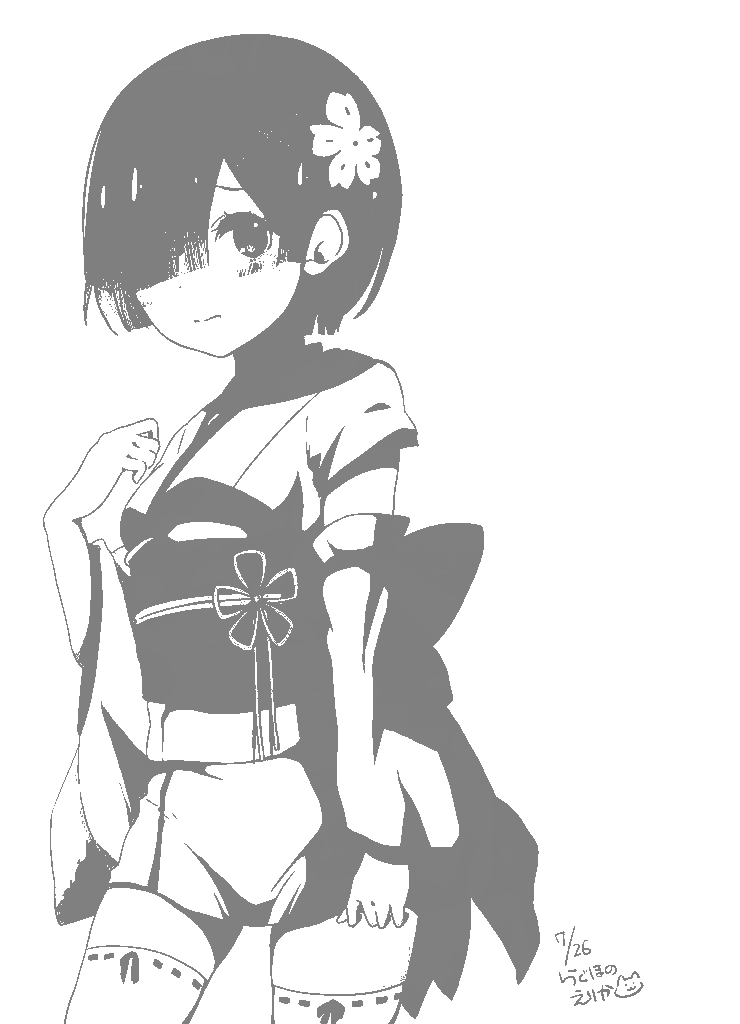
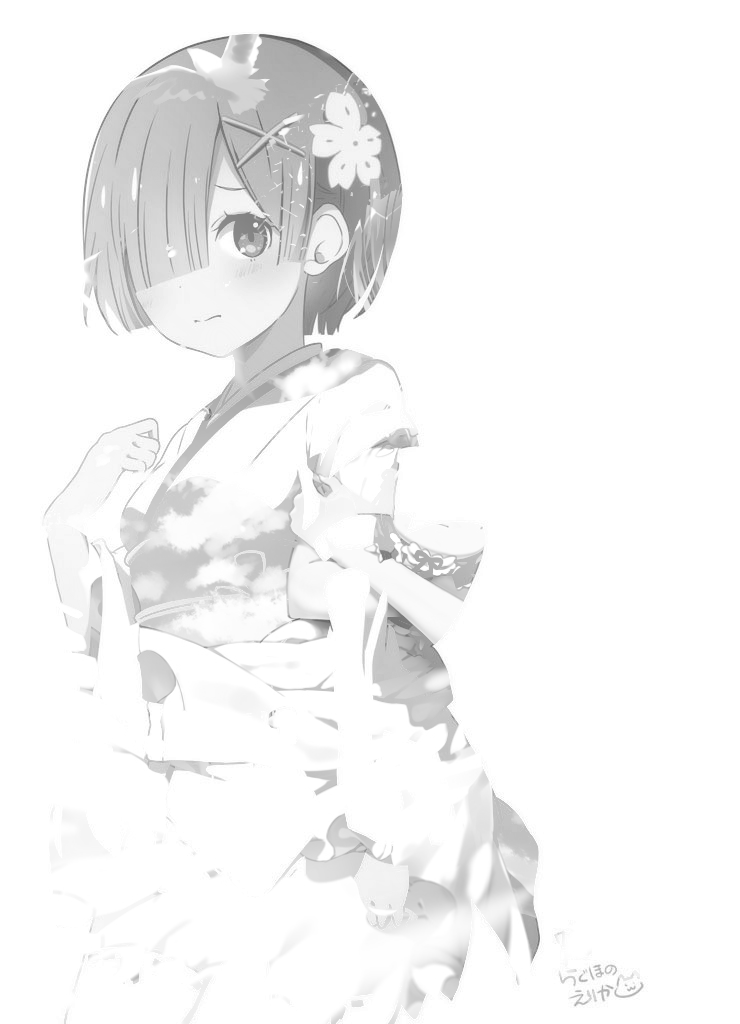
Change algorithm, using alpha blending now. But there's still some problem to solve...

Changed region(s): [[0.0622, 0.0312, 0.8703, 1.0]]

diff --git a/main.cpp b/main.cpp
@@ -12,6 +12,7 @@
 #include <opencv2/opencv.hpp>
 #include <opencv2/core/version.hpp>
 #include <opencv2/imgproc/imgproc.hpp>
+#include <libpng16/png.h>
 
 using namespace cv;
 
@@ -23,25 +24,19 @@ using namespace cv;
 #define CV_CVTCOLOR_GREY2BGRA COLOR_GRAY2BGRA
 #endif
 
-#define K_DEFAULT_THRESHOLD 192
 #define K_TRANSPARENT_ALPHA 0
-#define deviant 255
 
 #define ENSURE_NOT_NULL(x) (x != nullptr)
 
-char * frontlayer = NULL;
-char * backlayer = NULL;
+char * front_file = NULL;
+char * back_file = NULL;
 char * output = NULL;
-int front_threshold_value = K_DEFAULT_THRESHOLD;
-int back_threshold_value = K_DEFAULT_THRESHOLD;
 
 static struct option long_options[] = {
     {"help",            no_argument,       0, 'h'},
     {"front",           required_argument, 0, 'f'},
     {"back",            required_argument, 0, 'b'},
     {"ouput",           required_argument, 0, 'o'},
-    {"front threshold", optional_argument, 0, '1'},
-    {"back threshold",  optional_argument, 0, '2'},
     {0, 0, 0, 0}
 };
 
@@ -51,8 +46,6 @@ static struct option long_options[] = {
 void print_usage() {
     fprintf(stderr, "Usage: hoshizora [-f front layer]\n"
                     "                 [-b back layer]\n"
-                    "                 [-1 front threshold]\n"
-                    "                 [-2 back threshold]\n"
                     "                 [-o ouput]\n"
                     "\n"
                     "                 -h To print this help\n");
@@ -64,7 +57,7 @@ int parse_command_line(int argc, char * const * argv) {
     
     while (1) {
         option_index = 0;
-        c = getopt_long (argc, argv, "hf:b:1:2:o:", long_options, &option_index);
+        c = getopt_long (argc, argv, "hf:b:o:", long_options, &option_index);
         if (c == -1)
             break;
         switch (c) {
@@ -79,19 +72,11 @@ int parse_command_line(int argc, char * const * argv) {
                 break;
             }
             case 'f': {
-                asprintf(&frontlayer, "%s", optarg);
+                asprintf(&front_file, "%s", optarg);
                 break;
             }
             case 'b': {
-                asprintf(&backlayer, "%s", optarg);
-                break;
-            }
-            case '1': {
-                front_threshold_value = atoi(optarg);
-                break;
-            }
-            case '2': {
-                back_threshold_value = atoi(optarg);
+                asprintf(&back_file, "%s", optarg);
                 break;
             }
             case '?':
@@ -101,14 +86,9 @@ int parse_command_line(int argc, char * const * argv) {
         }
     }
     
-    return ENSURE_NOT_NULL(frontlayer)    &&
-           ENSURE_NOT_NULL(backlayer)     &&
-           ENSURE_NOT_NULL(output)        &&
-           (front_threshold_value >= 0    &&
-            front_threshold_value <= 255) &&
-           (back_threshold_value >= 0     &&
-            back_threshold_value <= 255)
-    ;
+    return ENSURE_NOT_NULL(front_file)    &&
+           ENSURE_NOT_NULL(back_file)     &&
+           ENSURE_NOT_NULL(output);
 }
 
 /**
@@ -133,6 +113,89 @@ void resize(Mat &src, Mat &dest, int width, int height, int interpolation = INTE
     cv::resize(src, dest, Size(width, height), width/w, height/h, interpolation);
 }
 
+int magic(char* filename, Size size, Mat& frontlayer, Mat& backlayer) {
+    int code = 0;
+    FILE *fp = NULL;
+    png_structp png_ptr = NULL;
+    png_infop info_ptr = NULL;
+    png_bytep row = NULL;
+    auto front_pixel = frontlayer.begin<Vec<uchar, 1>>();
+    auto back_pixel = backlayer.begin<Vec<uchar, 1>>();
+    
+    // Open file for writing (binary mode)
+    fp = fopen(filename, "wb");
+    if (fp == NULL) {
+        fprintf(stderr, "Could not open file %s for writing\n", filename);
+        code = 1;
+        goto finalise;
+    }
+    
+    // Initialize write structure
+    png_ptr = png_create_write_struct(PNG_LIBPNG_VER_STRING, NULL, NULL, NULL);
+    if (png_ptr == NULL) {
+        fprintf(stderr, "Could not allocate write struct\n");
+        code = 1;
+        goto finalise;
+    }
+    
+    // Initialize info structure
+    info_ptr = png_create_info_struct(png_ptr);
+    if (info_ptr == NULL) {
+        fprintf(stderr, "Could not allocate info struct\n");
+        code = 1;
+        goto finalise;
+    }
+    
+    // Setup Exception handling
+    if (setjmp(png_jmpbuf(png_ptr))) {
+        fprintf(stderr, "Error during png creation\n");
+        code = 1;
+        goto finalise;
+    }
+    png_init_io(png_ptr, fp);
+    
+    // Write header (8 bit colour depth)
+    png_set_IHDR(png_ptr, info_ptr, size.width, size.height,
+                 8, PNG_COLOR_TYPE_GRAY_ALPHA, PNG_INTERLACE_NONE,
+                 PNG_COMPRESSION_TYPE_BASE, PNG_FILTER_TYPE_BASE);
+    
+    png_write_info(png_ptr, info_ptr);
+    
+    // Allocate memory for one row (2 bytes per pixel - Gray+Alpha)
+    row = (png_bytep)malloc(2 * size.width * sizeof(png_byte));
+    
+    // Write image data
+    
+    for (int y = 0; y < size.height; y++) {
+        for (int x = 0; x < size.width; x++) {
+            uchar _y = (*back_pixel)[0];
+            uchar _x = (*front_pixel)[0];
+            uchar A = min(_y + 255 - _x, 255);
+            uchar G = (_y * 255.0f) / A;
+            row[x * 2 + 1] = A;
+            row[x * 2]     = G;
+            front_pixel++;
+            back_pixel++;
+        }
+        png_write_row(png_ptr, row);
+    }
+    
+    // End write
+    png_write_end(png_ptr, NULL);
+finalise:
+    if (fp != NULL) fclose(fp);
+    if (info_ptr != NULL) png_free_data(png_ptr, info_ptr, PNG_FREE_ALL, -1);
+    if (png_ptr != NULL) png_destroy_write_struct(&png_ptr, (png_infopp)NULL);
+    if (row != NULL) free(row);
+    
+    return code;
+}
+
+void overlay_center(Mat& bottom, Mat& layer, double alpha = 0) {
+    Rect roi = Rect((bottom.cols - layer.cols) / 2, (bottom.rows - layer.rows) / 2, layer.cols, layer.rows);
+    layer.copyTo(bottom(roi));
+}
+
 int main(int argc, const char * argv[]) {
     if (!parse_command_line(argc, (char * const *)argv)) {
         print_usage();
@@ -140,9 +203,9 @@ int main(int argc, const char * argv[]) {
     }
     
     // Load and transform to gray scale
-    Mat front = imread(frontlayer, CV_LOAD_IMAGE_GRAYSCALE);
-    Mat back  = imread(backlayer,  CV_LOAD_IMAGE_GRAYSCALE);
-    
+    Mat front = imread(front_file, CV_LOAD_IMAGE_GRAYSCALE);
+    Mat back  = imread(back_file,  CV_LOAD_IMAGE_GRAYSCALE);
+
     // resize image to fit
     if (front.cols > back.cols) {
         if (front.rows > back.rows) {
@@ -166,43 +229,19 @@ int main(int argc, const char * argv[]) {
         }
     }
 
-    // convert colorspace into BGRA
-    cvtColor(front, front, CV_CVTCOLOR_GREY2BGRA);
-    cvtColor(back,  back,  CV_CVTCOLOR_GREY2BGRA);
+    // new layers, same size
+    auto size = Size(max(front.cols, back.cols), max(front.rows, back.rows));
     
-    // for front layer
-    // we remove 'white color' (above threshold)
-    for (auto pixel = front.begin<Vec4b>(); pixel != front.end<Vec4b>(); pixel++) {
-        if ((*pixel)[0] < front_threshold_value) {
-            (*pixel)[2] = (*pixel)[1] = (*pixel)[0] = 0;
-            (*pixel)[3] = 255;
-        } else {
-            (*pixel)[2] = (*pixel)[1] = (*pixel)[0] = 255;
-            (*pixel)[3] = K_TRANSPARENT_ALPHA;
-        }
-    }
+    Mat frontlayer(size, CV_8U, Scalar(255));
+    Mat backlayer(size, CV_8U, Scalar(0));
     
-    // for back layer
-    // we remove 'black color' (below threshold)
-    for (auto pixel = back.begin<Vec4b>(); pixel != back.end<Vec4b>(); pixel++) {
-        if ((*pixel)[0] > back_threshold_value) {
-            (*pixel)[2] = (*pixel)[1] = (*pixel)[0] = 255;
-            (*pixel)[3] = 255;
-        } else {
-            (*pixel)[2] = (*pixel)[1] = (*pixel)[0] = 0;
-            (*pixel)[3] = K_TRANSPARENT_ALPHA;
-        }
-    }
+    overlay_center(frontlayer, front);
+    overlay_center(backlayer, back);
     
-    Mat result = front.clone();
-    Rect roi = Rect((front.cols - back.cols) / 2, (front.rows - back.rows) / 2, back.cols, back.rows);
-    Mat fusion = result(roi);
-    addWeighted(fusion, 0.5, back, 0.5, 0.0, fusion);
-    
-    imwrite(output, result);
+    magic(output, size, frontlayer, backlayer);
 
-    free((void *)frontlayer);
-    free((void *)backlayer);
+    free((void *)front_file);
+    free((void *)back_file);
     free((void *)output);
     return 0;
 }
